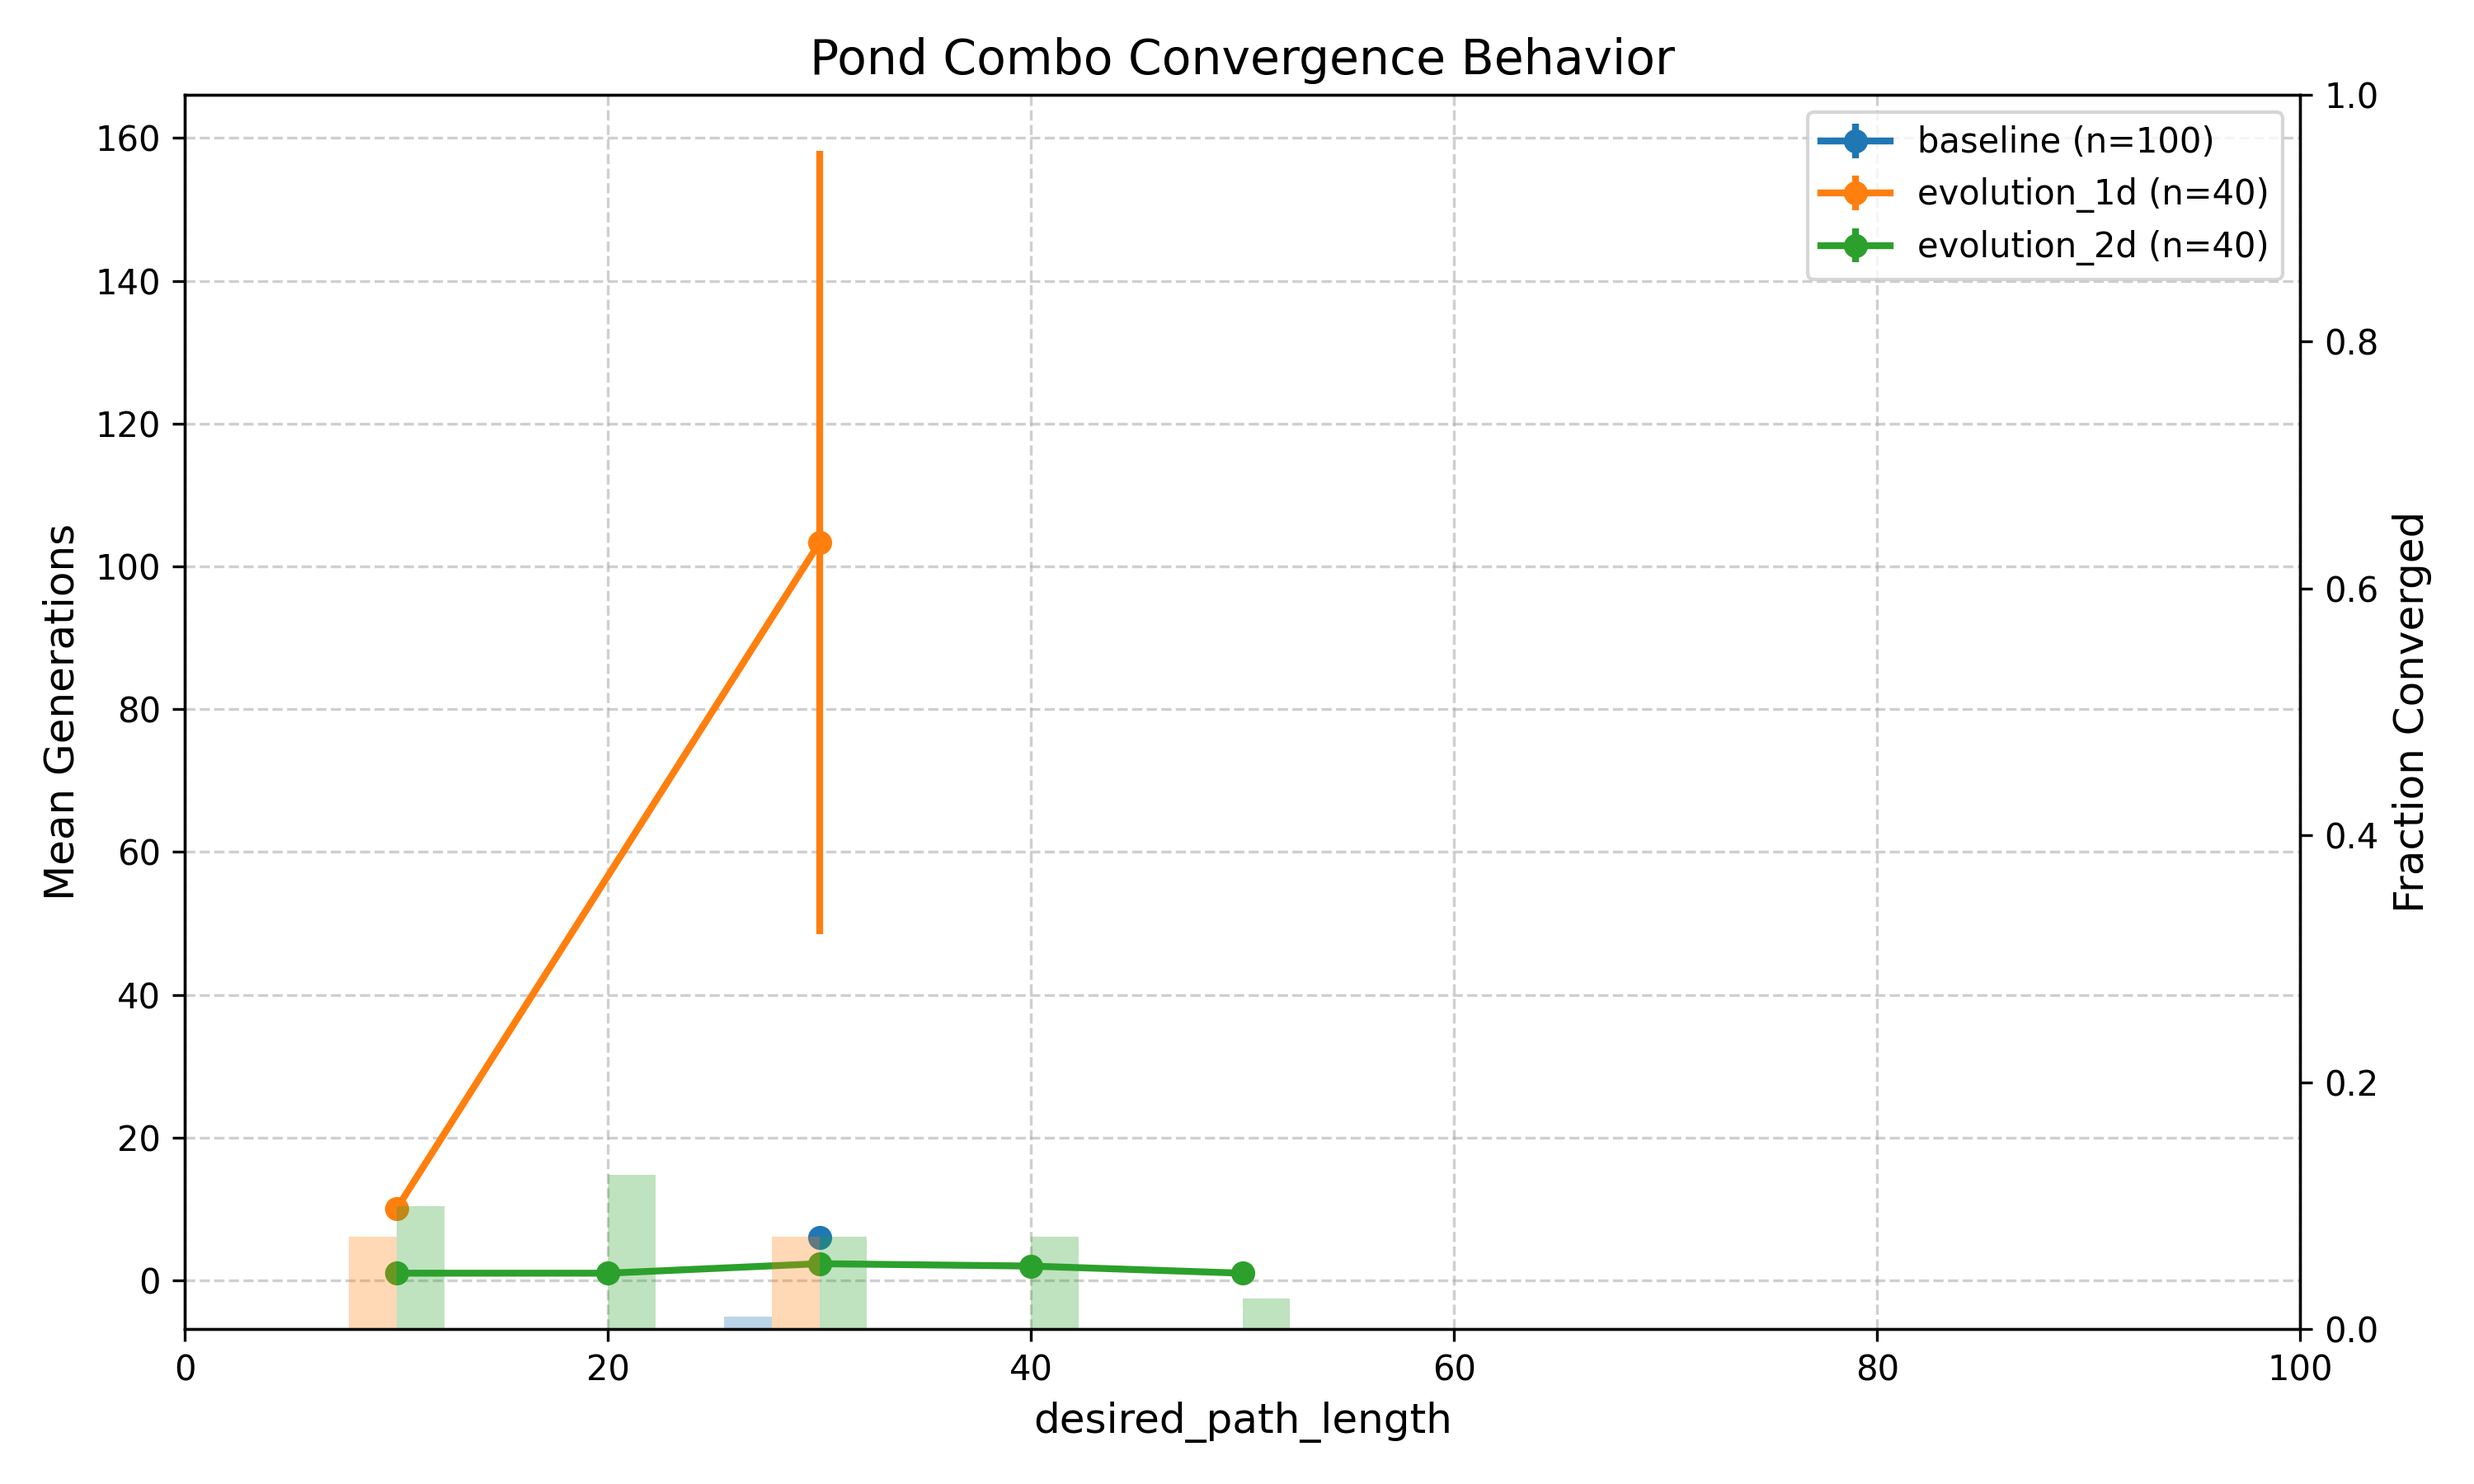
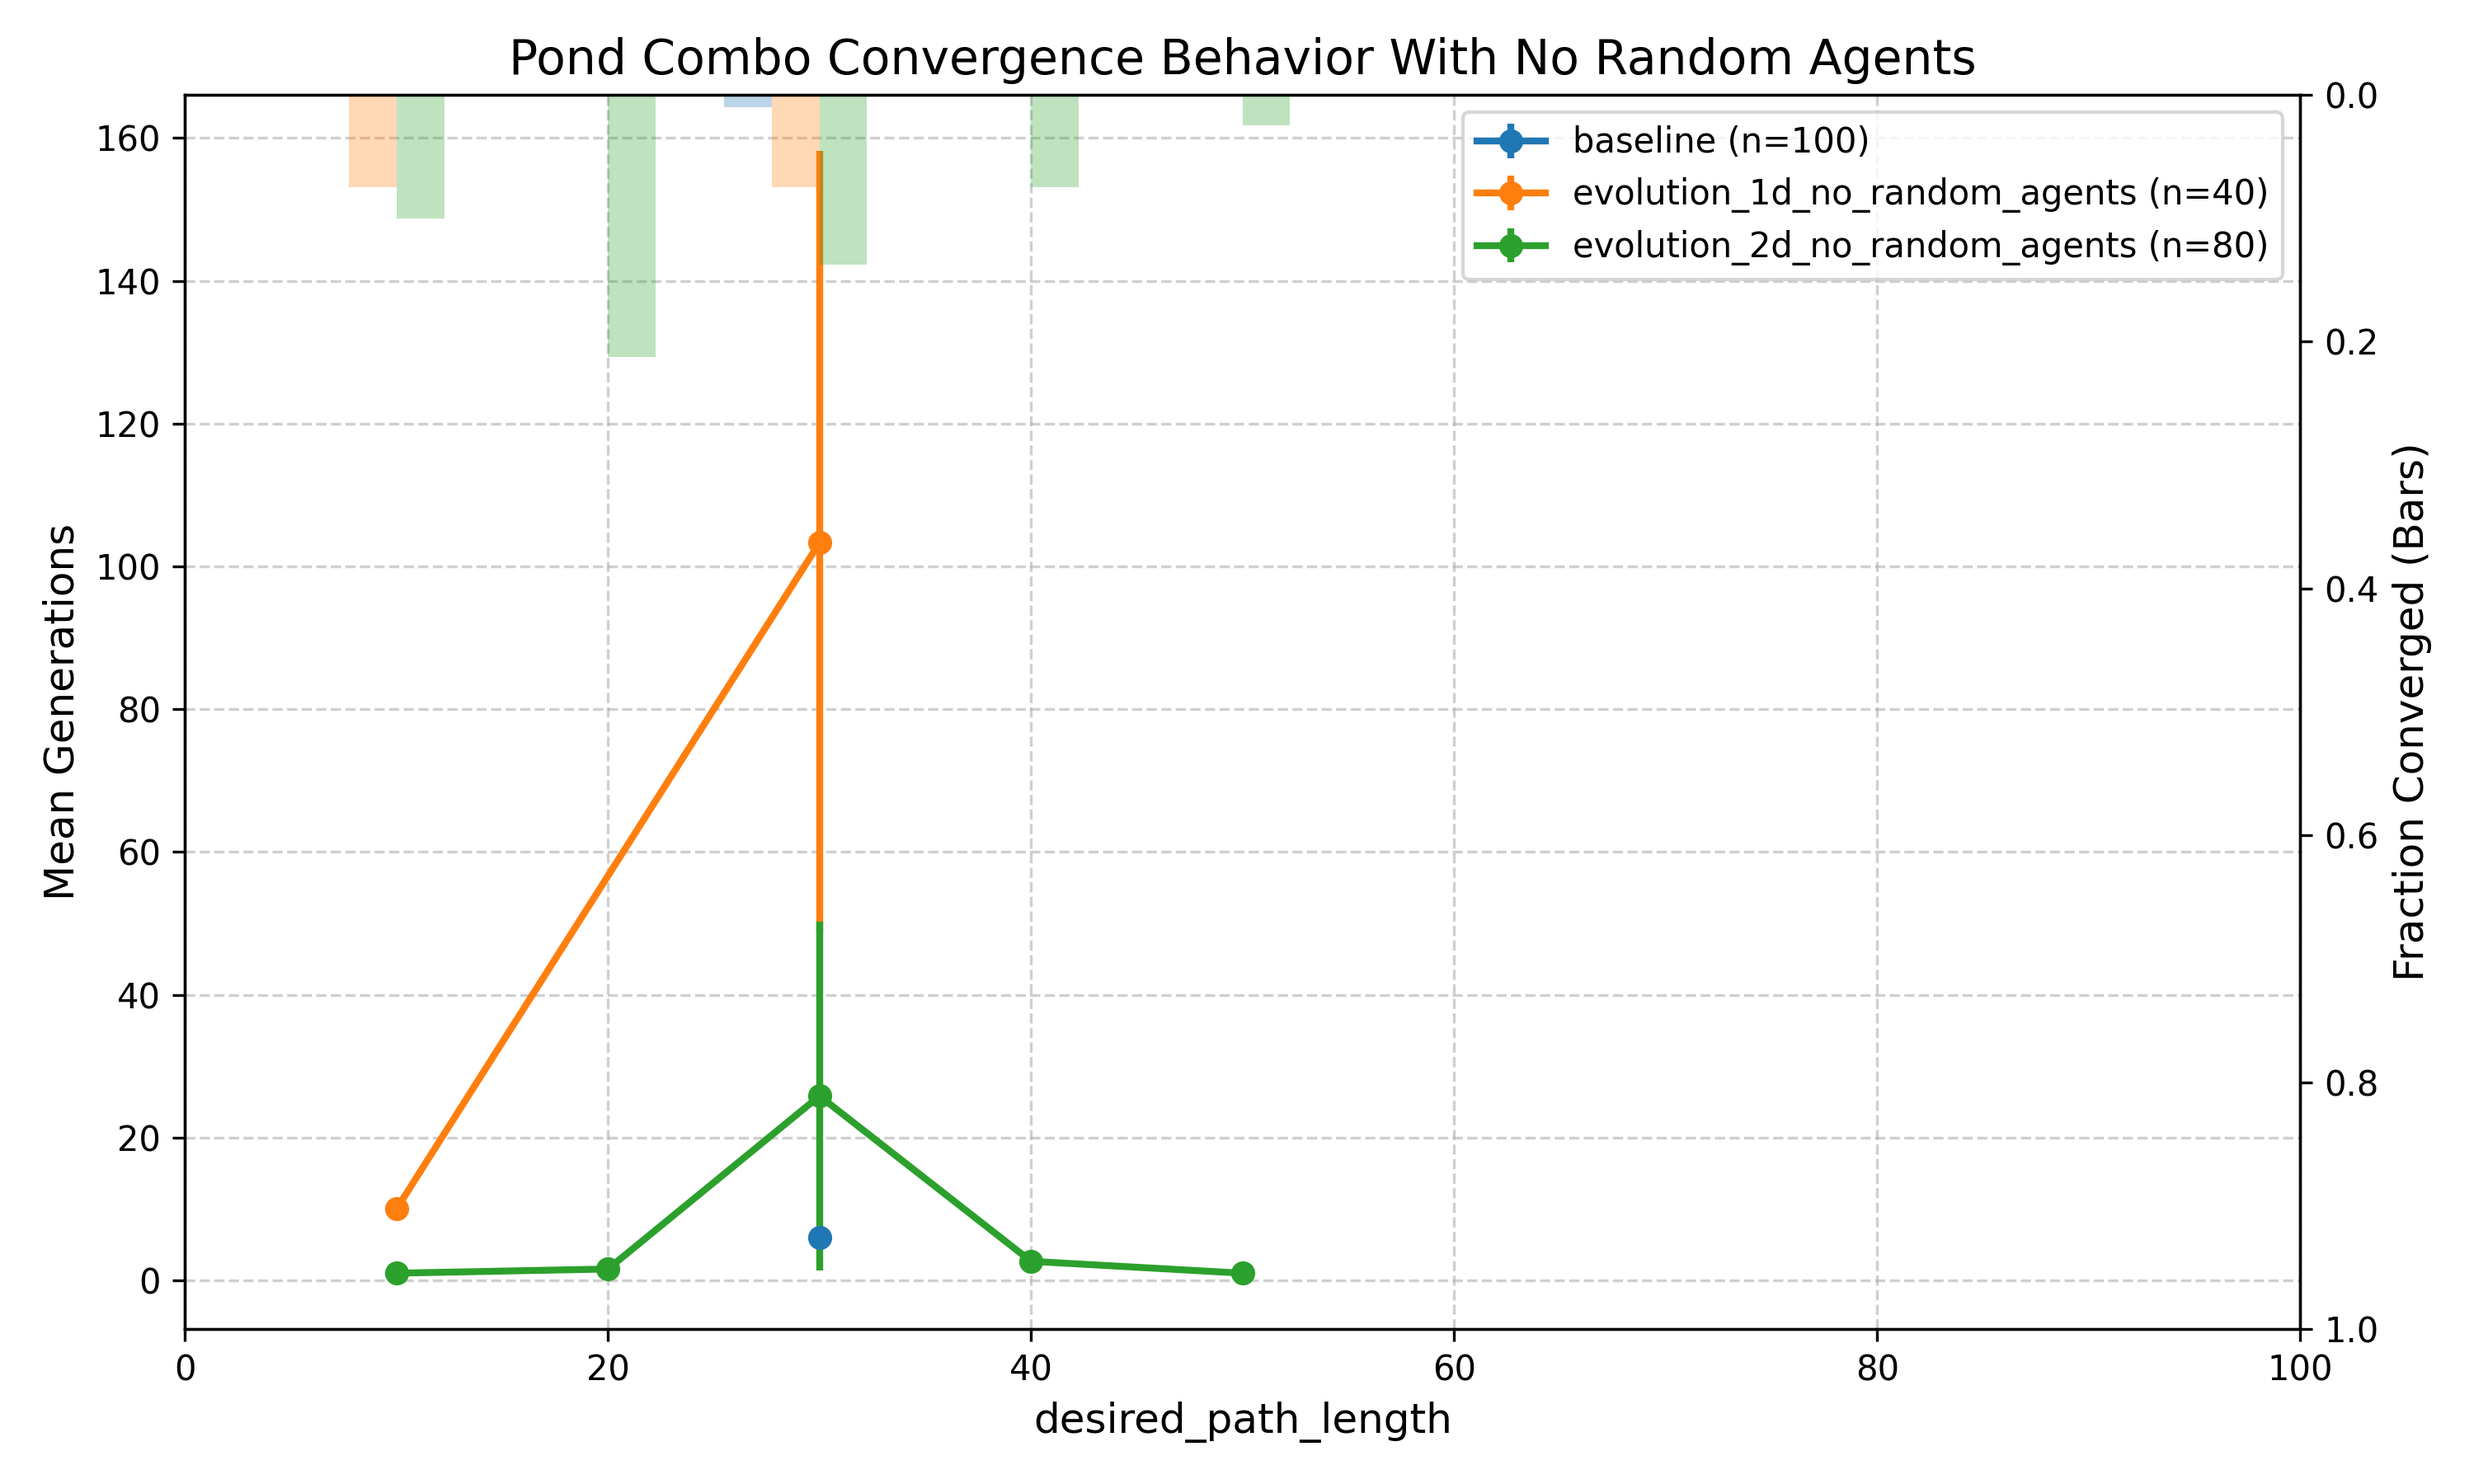
0 out the random agents in hyperameters

diff --git a/plot.py b/plot.py
@@ -614,7 +614,7 @@ def plot_comparison(
     output_path: str = None,
     title: str = "Method Comparison",
     xlabel: str = "desired_path_length",
-    y_label: str = "Mean Generations"
+    y_label: str = "Mean Generations (Bars)"
 ):
     """
     Read each CSV, compute mean+stderr and fraction converged,
@@ -690,7 +690,7 @@ def plot_comparison(
     # 4) Configure axes and legend
     left_axis.set_xlabel(xlabel, fontsize=12)
     left_axis.set_ylabel(y_label, fontsize=12)
-    right_axis.set_ylabel("Fraction Converged", fontsize=12)
+    right_axis.set_ylabel("Fraction Converged (Bars)", fontsize=12)
     
     # FORCE x-axis from 0 to 100
     left_axis.set_xlim(0, 100)
@@ -698,7 +698,7 @@ def plot_comparison(
     # left_axis.set_xticks(list(range(0, 101, 10)))
     
     # FORCE right y-axis from 0 to 1
-    right_axis.set_ylim(0, 1)
+    right_axis.set_ylim(1, 0)
     
     left_axis.grid(True, linestyle="--", alpha=0.6)
     left_axis.legend(loc="upper right", fontsize=10)
@@ -955,7 +955,7 @@ if __name__ == "__main__":
         "--genotype-dimensions", type=int, choices=[1, 2], default=1
     )
     parser.add_argument("--debug", action="store_true", help="Save per-run debug plots")
-    parser.add_argument("--sample-size", type=int, default=40, help="Number of runs to collect per data point.")
+    parser.add_argument("--sample-size", type=int, default=50, help="Number of runs to collect per data point.")
     parser.add_argument("--mcts-iterations", type=int, default=1000, help="Number of MCTS iterations to run per session.")
     args = parser.parse_args()
 

diff --git a/core/evolution.py b/core/evolution.py
@@ -439,7 +439,7 @@ def objective(
         "survival_rate": trial.suggest_float("survival_rate", 0.1, 0.8),
         "cross_over_method": trial.suggest_categorical("cross_over_method", [0, 1]),
         "cross_or_mutate": trial.suggest_float("cross_or_mutate", 0.0, 1.0),
-        "random_offspring": trial.suggest_float("random_offspring", 0.0, 0.3),
+        "random_offspring": trial.suggest_float("random_offspring", 0.0, 0.0),
     }
     # Fixed parameters
     population_size = 48
